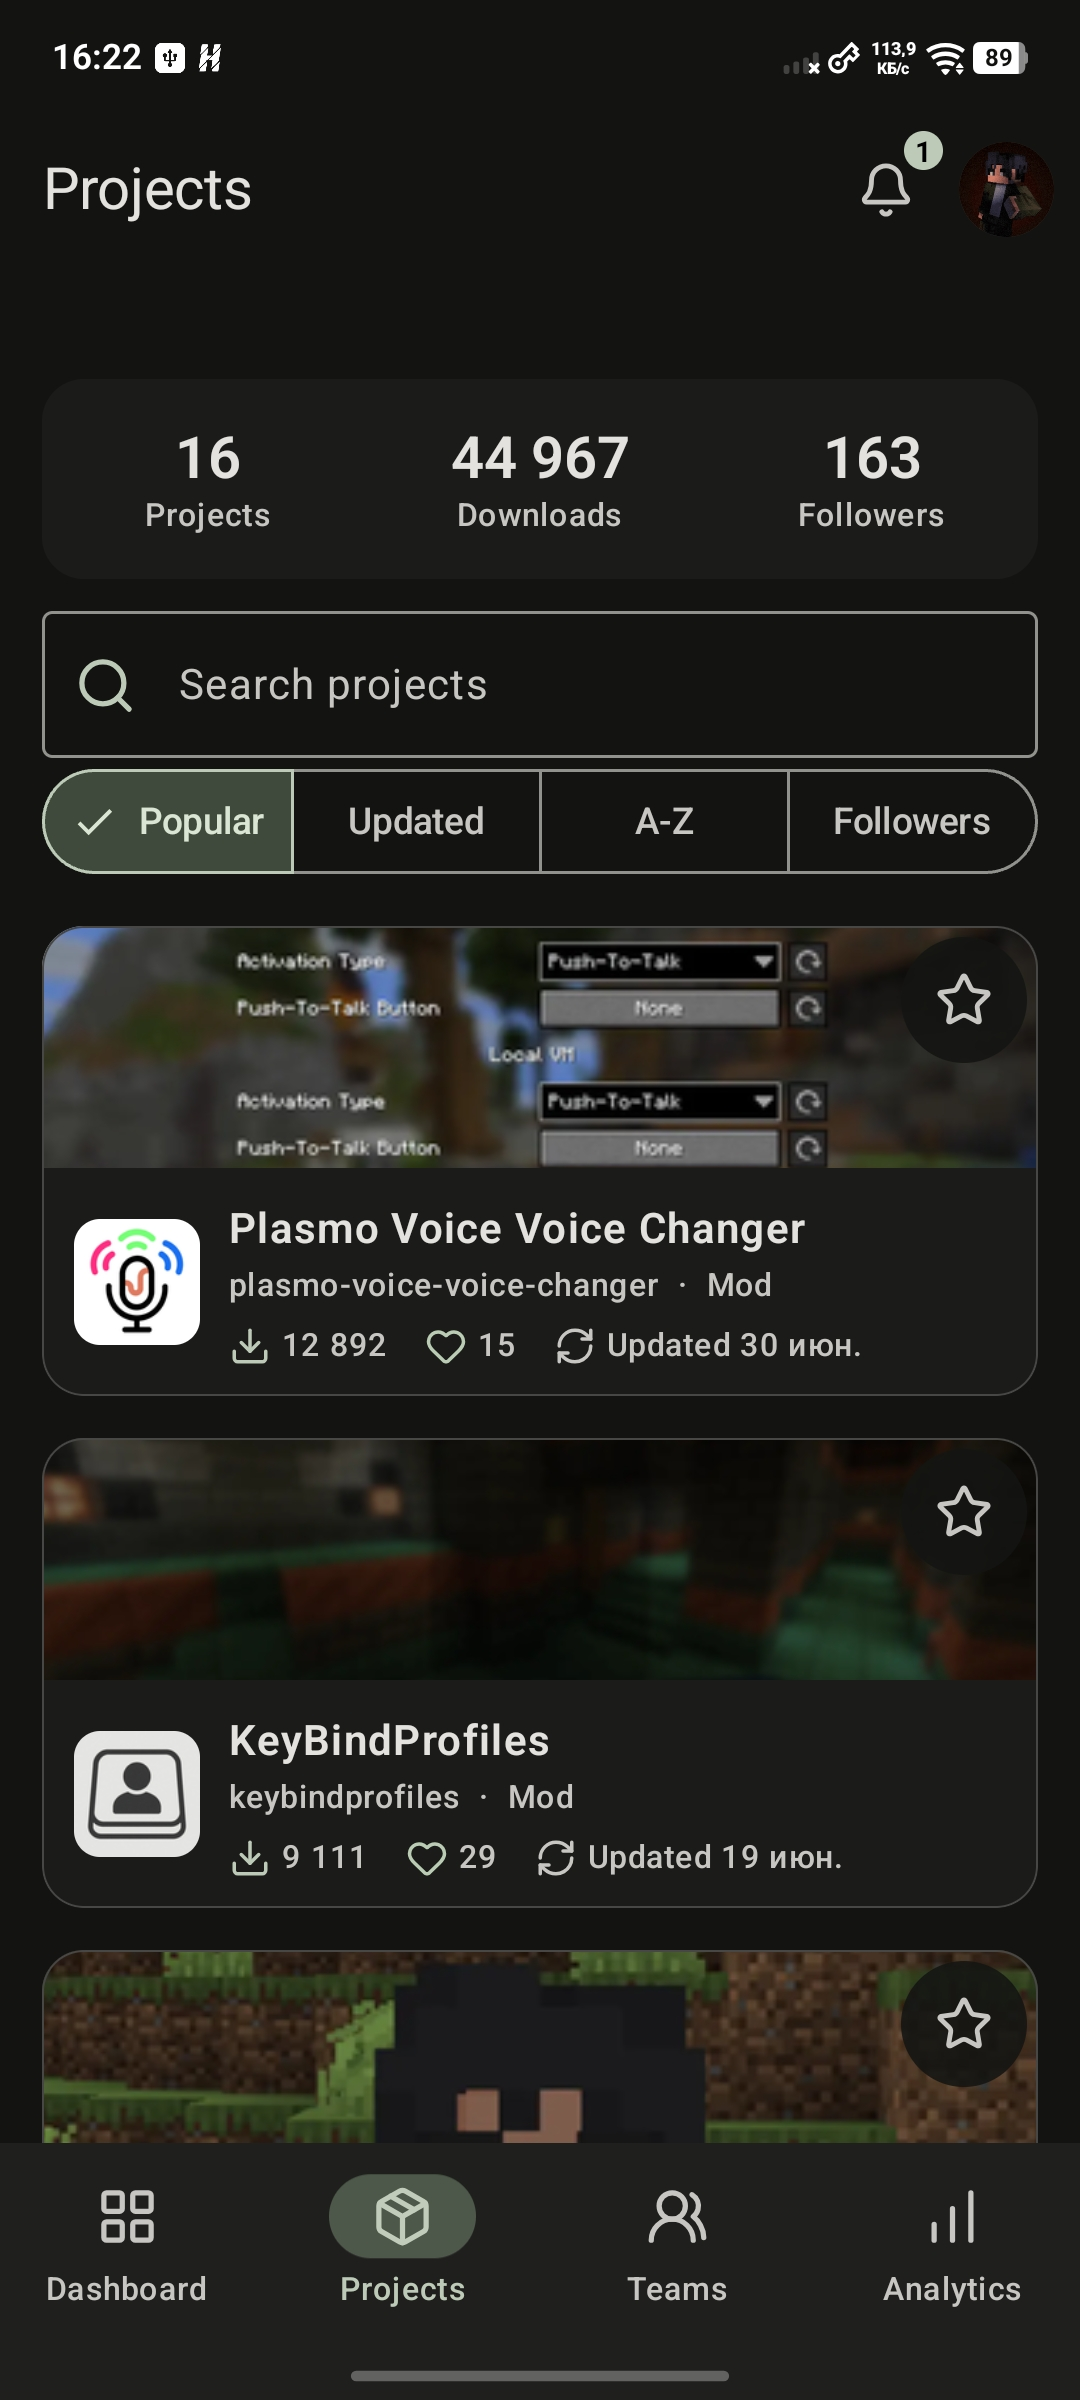
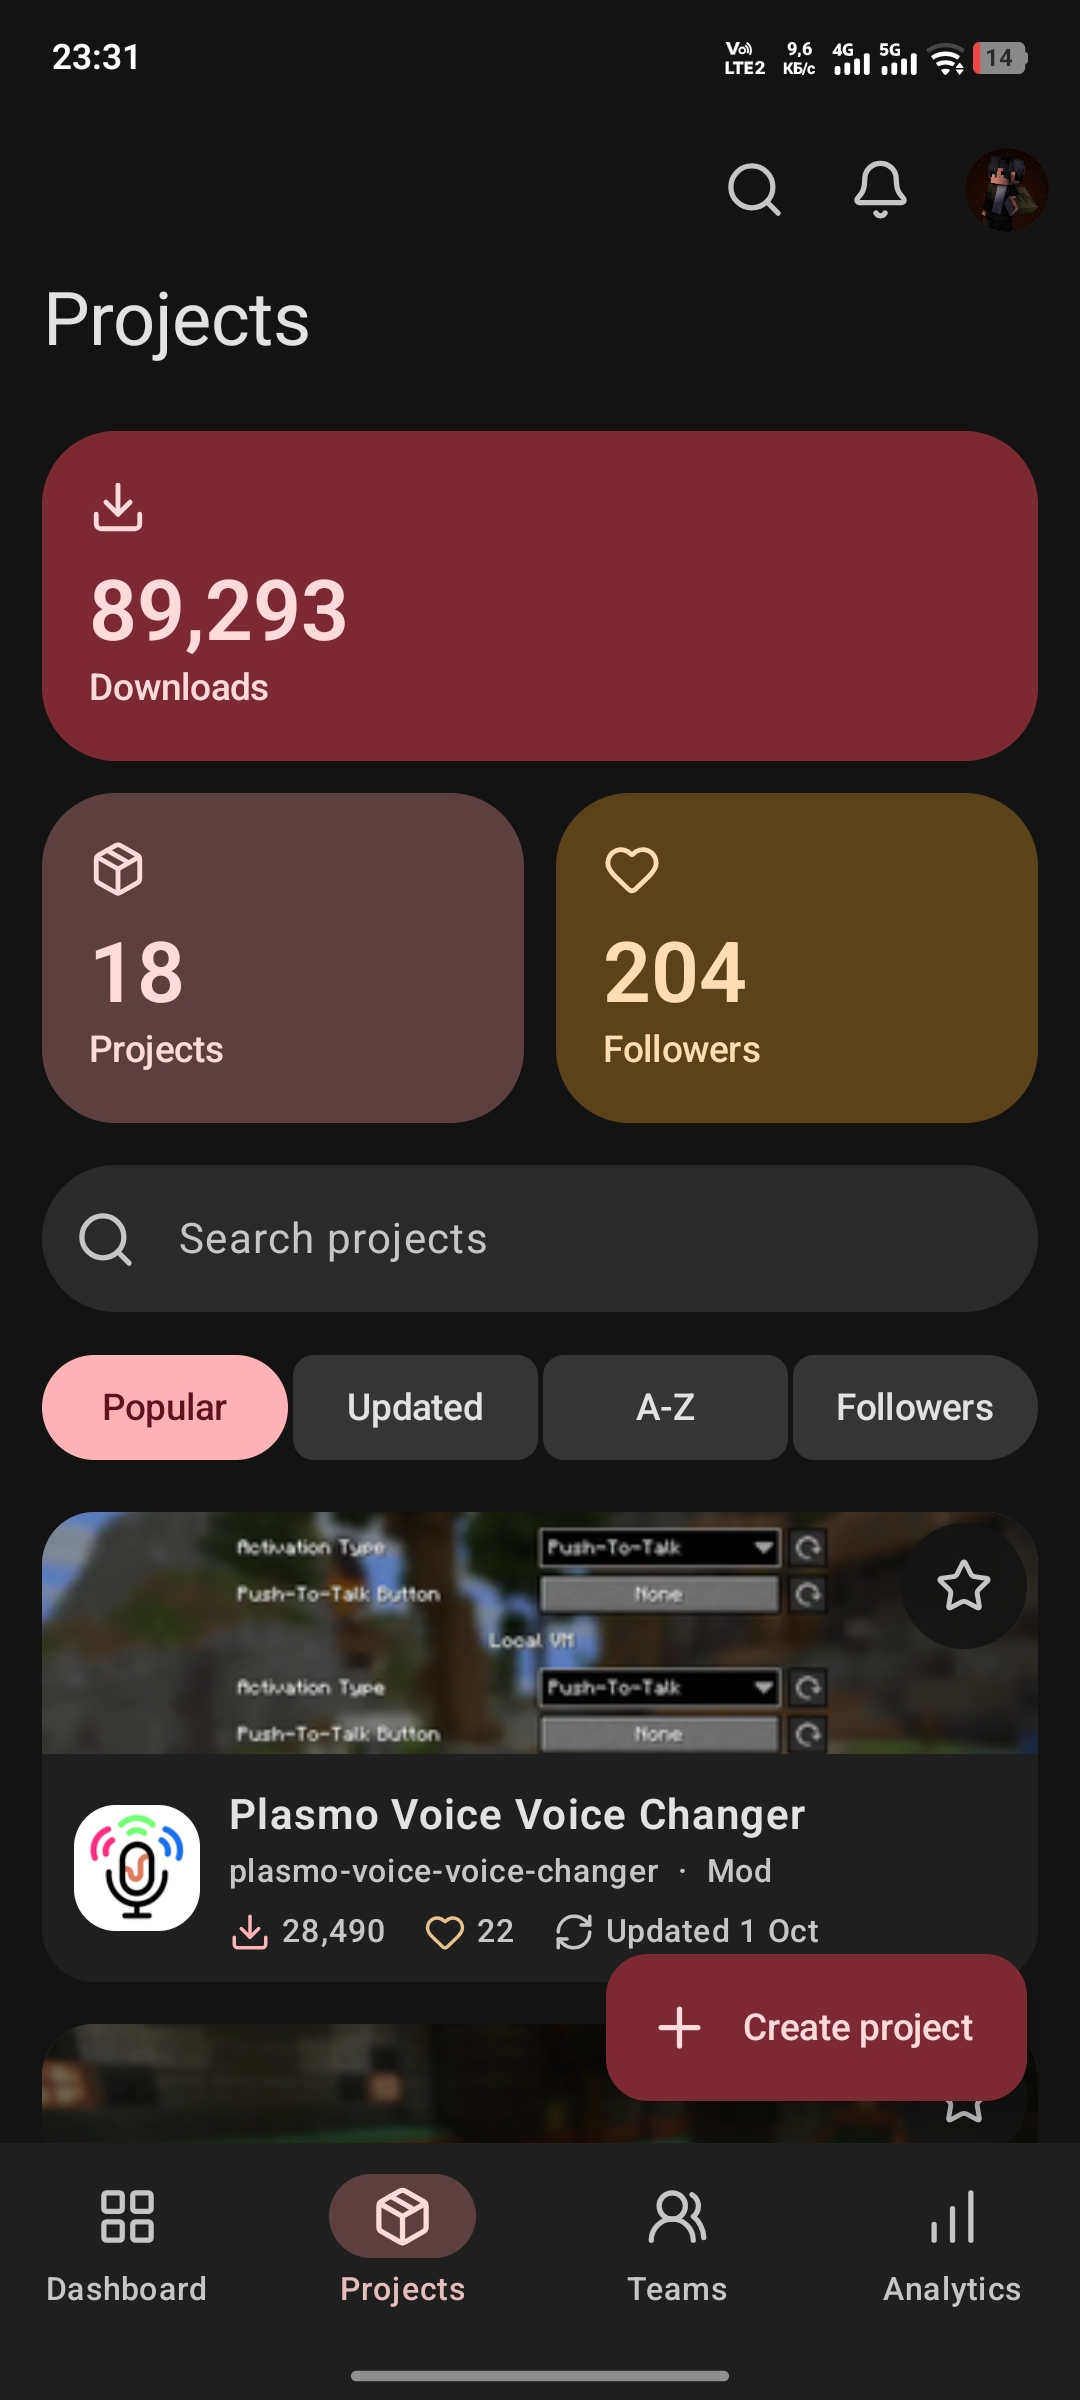
docs: refresh the screenshots and README for 3.3.0
New Android and iOS captures, the wallet, widgets and project links in the feature list, Xcode 26 as the minimum, the GitHub Actions builds, and the current Discord invite.

diff --git a/README.md b/README.md
@@ -10,11 +10,11 @@
 
 ## Community
 
-Join the Ryntra Discord server: https://discord.gg/6H5vDq2wk7
+Join the Ryntra Discord server: https://discord.gg/H8YuSxE8UU
 
 ## Screenshots
 
-<p align="center"><strong>Android · Material 3</strong></p>
+<p align="center"><strong>Android · Material 3 Expressive</strong></p>
 <p align="center">
   <a href="./docs/screenshots/dashboard.png"><img src="./docs/screenshots/dashboard.png" width="210" alt="Ryntra dashboard on Android" /></a>
   <a href="./docs/screenshots/projects.png"><img src="./docs/screenshots/projects.png" width="210" alt="Ryntra projects on Android" /></a>
@@ -23,7 +23,7 @@ Join the Ryntra Discord server: https://discord.gg/6H5vDq2wk7
 </p>
 <p align="center"><sub>Dashboard · Projects · Analytics · Teams</sub></p>
 
-<p align="center"><strong>iOS · SwiftUI</strong></p>
+<p align="center"><strong>iOS · SwiftUI with Liquid Glass</strong></p>
 <p align="center">
   <a href="./docs/screenshots/ios-dashboard.png"><img src="./docs/screenshots/ios-dashboard.png" width="210" alt="Ryntra dashboard on iOS" /></a>
   <a href="./docs/screenshots/ios-projects.png"><img src="./docs/screenshots/ios-projects.png" width="210" alt="Ryntra projects on iOS" /></a>
@@ -37,7 +37,7 @@ Join the Ryntra Discord server: https://discord.gg/6H5vDq2wk7
 ## What Ryntra Can Do
 
 - Sign in with Modrinth OAuth, with PAT login available as a fallback.
-- View, search, and manage your Modrinth projects.
+- View, search, and manage your Modrinth projects, and copy a link to any project in one tap.
 - Browse the public Modrinth catalogue with search, category tabs, game version and loader filters, and open any project read-only.
 - Edit project metadata, links, descriptions, status, icons, banners, and gallery images.
 - Manage versions, loaders, game versions, dependencies, files, and release metadata.
@@ -45,16 +45,17 @@ Join the Ryntra Discord server: https://discord.gg/6H5vDq2wk7
 - Work with teams and organizations, including members, permissions, invites, ownership, and organization projects.
 - Open related projects directly from notifications and accept organization or project invitations.
 - View analytics for downloads, views, playtime, revenue, trends, and per-project performance.
-- Check balance and payout history where Modrinth exposes that data.
+- Track your wallet like on modrinth.com: the balance split by payout date, withdrawal totals, the full transaction history by month with CSV export, and affiliate link stats.
+- Add home screen widgets on Android in three sizes, including a downloads chart for the last 7, 30, or 90 days.
 - Edit your Modrinth profile, avatar, bio, and account details.
-- Customize the app with Material 3 Android themes and native iOS appearance, including light and dark modes.
+- Customize the app with Material 3 Expressive themes on Android and the native look on iOS and macOS, including Liquid Glass on iOS 26 and light and dark modes.
 - Use the app in English, Russian, and other community-contributed languages.
 - Receive local background notifications or optional instant notifications through the limited relay.
 - Get native update notices from GitHub Releases with the correct APK or IPA download for your platform.
 
 ## Downloads
 
-Android builds are published as APK files in [GitHub Releases](https://github.com/Ryntra-App/Ryntra/releases).
+Android builds are published as APK files in [GitHub Releases](https://github.com/Ryntra-App/Ryntra/releases), next to the unsigned iOS IPA and the macOS DMG.
 
 iOS builds are distributed as an unsigned IPA for sideloading. To install the iOS app, use Sideloadly on a computer, sign in to iCloud on Apple's official iCloud app or website, connect your iPhone or iPad with a cable, install the IPA, then trust the developer profile in device settings and enable Developer Mode if iOS asks.
 
@@ -71,7 +72,7 @@ Tokens are stored locally on your device using Android Keystore or the iOS Keych
 ### Requirements
 
 - Android Studio with JBR 21 and Android SDK 36.
-- Xcode 16 or newer for iOS builds.
+- Xcode 26 or newer for iOS and macOS builds. An app built against an older SDK keeps the pre-iOS 26 look instead of Liquid Glass.
 - No Node.js, CocoaPods, or web runtime is required.
 
 ### Android Build
@@ -124,12 +125,18 @@ xcodebuild -project iosApp/Ryntra.xcodeproj -scheme Ryntra \
 
 The product lands in `Debug-iphonesimulator`, since the compatibility layer runs an iOS binary. Install it with `xcrun simctl install`.
 
+### GitHub Actions
+
+- `Native quality` runs on every push to `main`: localization checks, shared tests, the Android debug build, and the iOS and macOS builds on Xcode 26.
+- `Apple builds` is started by hand from the Actions tab. It produces `Ryntra-simulator.zip` for Appetize, the unsigned `Ryntra.<version>.ipa`, and `Ryntra.<version>.dmg` for macOS, so Apple builds need no Mac.
+
 ### Codemagic
 
-The repository includes three Codemagic workflows:
+The repository also includes four Codemagic workflows:
 
 - `android-native`, which runs shared tests and builds the Android debug APK.
 - `ios-native`, which builds a Release iOS Simulator app and packages `Ryntra-simulator.zip` for Appetize.
+- `macos-native`, which builds the Apple Silicon Mac app and packages it as a DMG.
 - `ios-unsigned-ipa`, which builds a Release ARM64 device app and packages `Ryntra-unsigned.ipa` for sideload signing.
 
 The unsigned device workflow intentionally disables Codemagic signing. It is still a Release build; Sideloadly applies the provisioning profile later.
@@ -159,7 +166,7 @@ Ryntra — неофициальное нативное мобильное при
 ## Возможности
 
 - Вход через Modrinth OAuth и запасной вход по PAT.
-- Просмотр, поиск и управление проектами Modrinth.
+- Просмотр, поиск и управление проектами Modrinth, копирование ссылки на любой проект в одно касание.
 - Обзор публичного каталога Modrinth: поиск, категории, фильтры по версии игры и загрузчику, открытие любого проекта в режиме просмотра.
 - Редактирование метаданных, ссылок, описаний, статуса, иконок, баннеров и галереи.
 - Управление версиями, загрузчиками, версиями игры, зависимостями, файлами и метаданными релизов.
@@ -167,16 +174,17 @@ Ryntra — неофициальное нативное мобильное при
 - Работа с командами и организациями: участники, права, приглашения, владелец и проекты организации.
 - Переход в связанные проекты прямо из уведомлений и принятие приглашений.
 - Аналитика по загрузкам, просмотрам, playtime, доходу, трендам и отдельным проектам.
-- Просмотр баланса и истории выплат, если эти данные доступны через Modrinth.
+- Кошелёк как на modrinth.com: баланс по датам выплат, суммы выводов, вся история операций по месяцам с экспортом в CSV и статистика партнёрских ссылок.
+- Виджеты на главный экран Android трёх размеров, в том числе график загрузок за 7, 30 или 90 дней.
 - Редактирование профиля, аватара, био и данных аккаунта.
-- Нативные темы Android Material 3 и iOS, светлый и тёмный режимы.
+- Material 3 Expressive на Android и нативный вид на iOS и macOS, включая Liquid Glass на iOS 26, светлый и тёмный режимы.
 - Поддержка английского, русского и других языков, которые добавляет сообщество.
 - Локальные фоновые уведомления и необязательная мгновенная доставка через relay-сервис.
 - Нативное уведомление о новых версиях с правильной ссылкой на APK или IPA.
 
 ## Установка
 
-Android-версия публикуется APK-файлом в [GitHub Releases](https://github.com/Ryntra-App/Ryntra/releases).
+Android-версия публикуется APK-файлом в [GitHub Releases](https://github.com/Ryntra-App/Ryntra/releases), рядом лежат unsigned IPA для iOS и DMG для macOS.
 
 iOS-версия доступна как unsigned IPA для sideloading. Чтобы установить приложение на iPhone или iPad, скачай IPA, подпиши его через Sideloadly или другой trusted sideloading-инструмент, установи приложение и доверь профиль разработчика в настройках устройства, если iOS попросит.
 
@@ -193,7 +201,7 @@ iOS-версия доступна как unsigned IPA для sideloading. Что
 ### Требования
 
 - Android Studio с JBR 21 и Android SDK 36.
-- Xcode 16 или новее для iOS-сборок.
+- Xcode 26 или новее для iOS и macOS. Со старым SDK приложение на iOS 26 остаётся в прежнем дизайне без Liquid Glass.
 - Node.js, CocoaPods и web-runtime не требуются.
 
 ### Android-сборка
@@ -244,12 +252,18 @@ xcodebuild -project iosApp/Ryntra.xcodeproj -scheme Ryntra \
 
 Продукт появится в `Debug-iphonesimulator`, потому что слой совместимости запускает iOS-бинарник. Установить его можно через `xcrun simctl install`.
 
+### GitHub Actions
+
+- `Native quality` запускается на каждый push в `main`: проверка переводов, shared-тесты, Android debug-сборка, а также iOS и macOS на Xcode 26.
+- `Apple builds` запускается вручную во вкладке Actions. Он собирает `Ryntra-simulator.zip` для Appetize, unsigned `Ryntra.<версия>.ipa` и `Ryntra.<версия>.dmg` для macOS, так что Mac для Apple-сборок не нужен.
+
 ### Codemagic
 
-В `codemagic.yaml` есть три workflow:
+В `codemagic.yaml` есть четыре workflow:
 
 - `android-native` запускает shared-тесты и собирает Android debug APK.
 - `ios-native` собирает Release-приложение для iOS Simulator и пакует `Ryntra-simulator.zip` для Appetize.
+- `macos-native` собирает приложение для Mac на Apple Silicon и пакует его в DMG.
 - `ios-unsigned-ipa` собирает Release ARM64-приложение и пакует `Ryntra-unsigned.ipa` для последующей подписи.
 
 Unsigned workflow намеренно отключает подпись Codemagic. Это всё равно Release-сборка, а provisioning profile добавляется через Sideloadly.
@@ -266,4 +280,4 @@ Unsigned workflow намеренно отключает подпись Codemagic
 
 ## Сообщество
 
-Discord-сервер Ryntra: https://discord.gg/6H5vDq2wk7
+Discord-сервер Ryntra: https://discord.gg/H8YuSxE8UU
